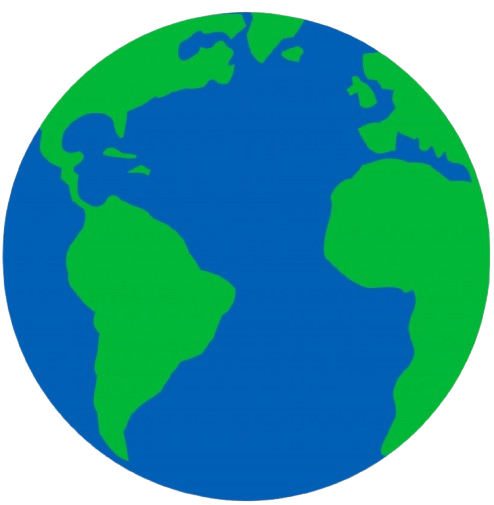
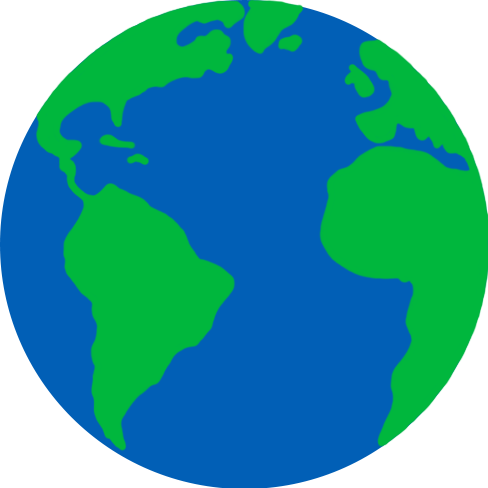
fix: planet earth img

diff --git a/src/simulation.py b/src/simulation.py
@@ -65,7 +65,7 @@ class Projectile:
         pygame.draw.circle(screen, self.color, screen_pos, self.size * zoom)
     
 # class GravityBody
-class GravityBody(pygame.sprite.Sprite):
+class GravityBody():
     def __init__(self, pos: np.ndarray, diameter: float, color: tuple):
         super().__init__()
         self.original_image = pygame.image.load("planet_earth.png").convert_alpha()
@@ -85,8 +85,6 @@ class GravityBody(pygame.sprite.Sprite):
         self.rect = self.image.get_rect(center=screen_pos)
         
         screen.blit(self.image, self.rect)
-
-        # pygame.draw.circle(screen, self.color, screen_pos, self.diameter/2 * zoom)
         
     def exerce_gravity(self, projectile: Projectile): # calculates the new moment exerced on the give projectile by this gravity body
         distance_from_center_of_mass: np.double = np.linalg.norm(projectile.moment[0] - self.pos)
